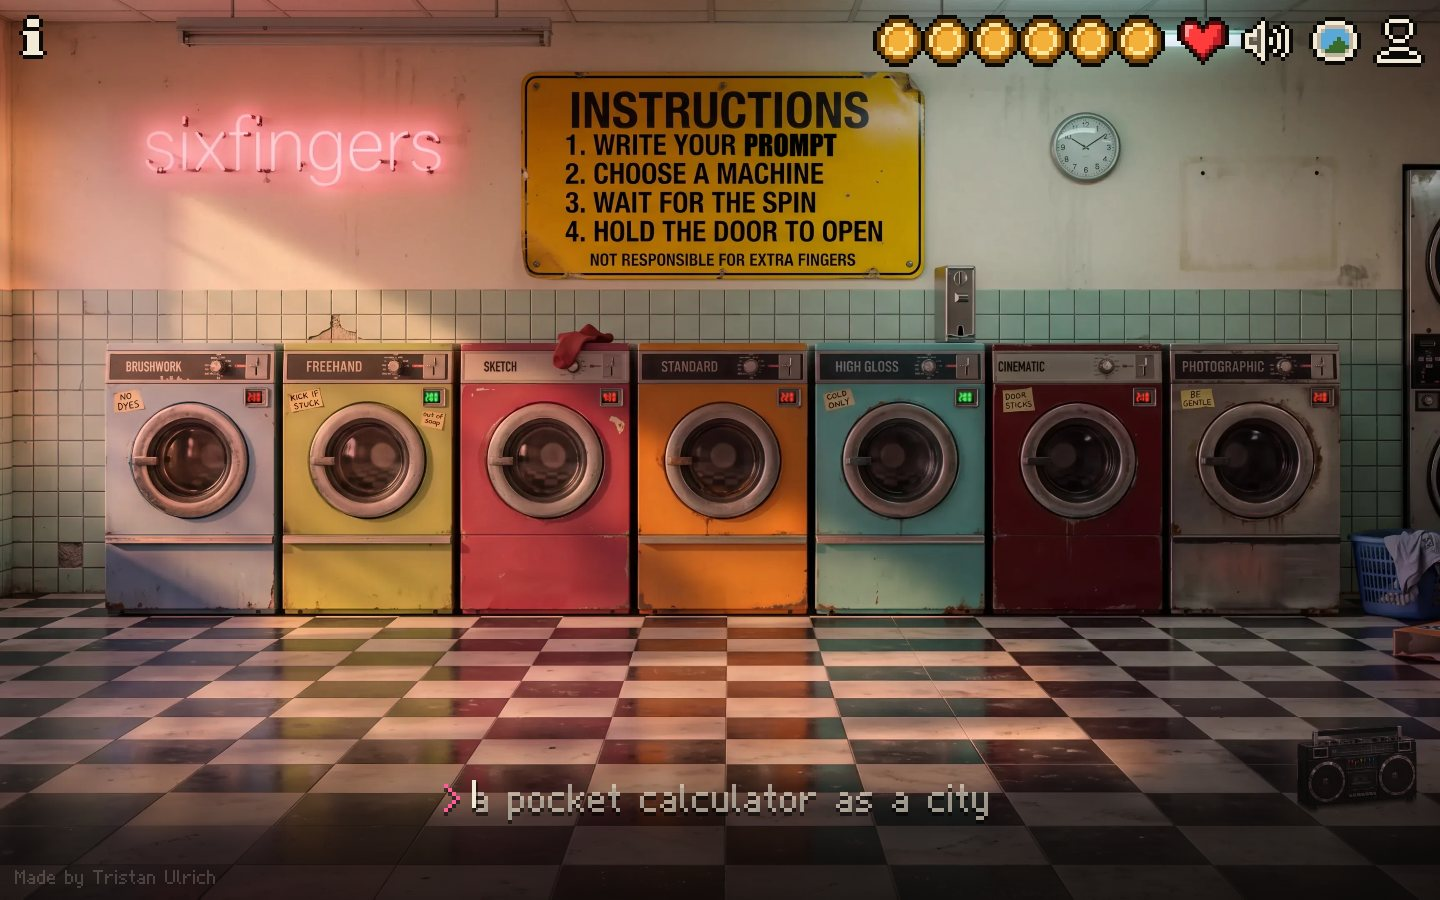
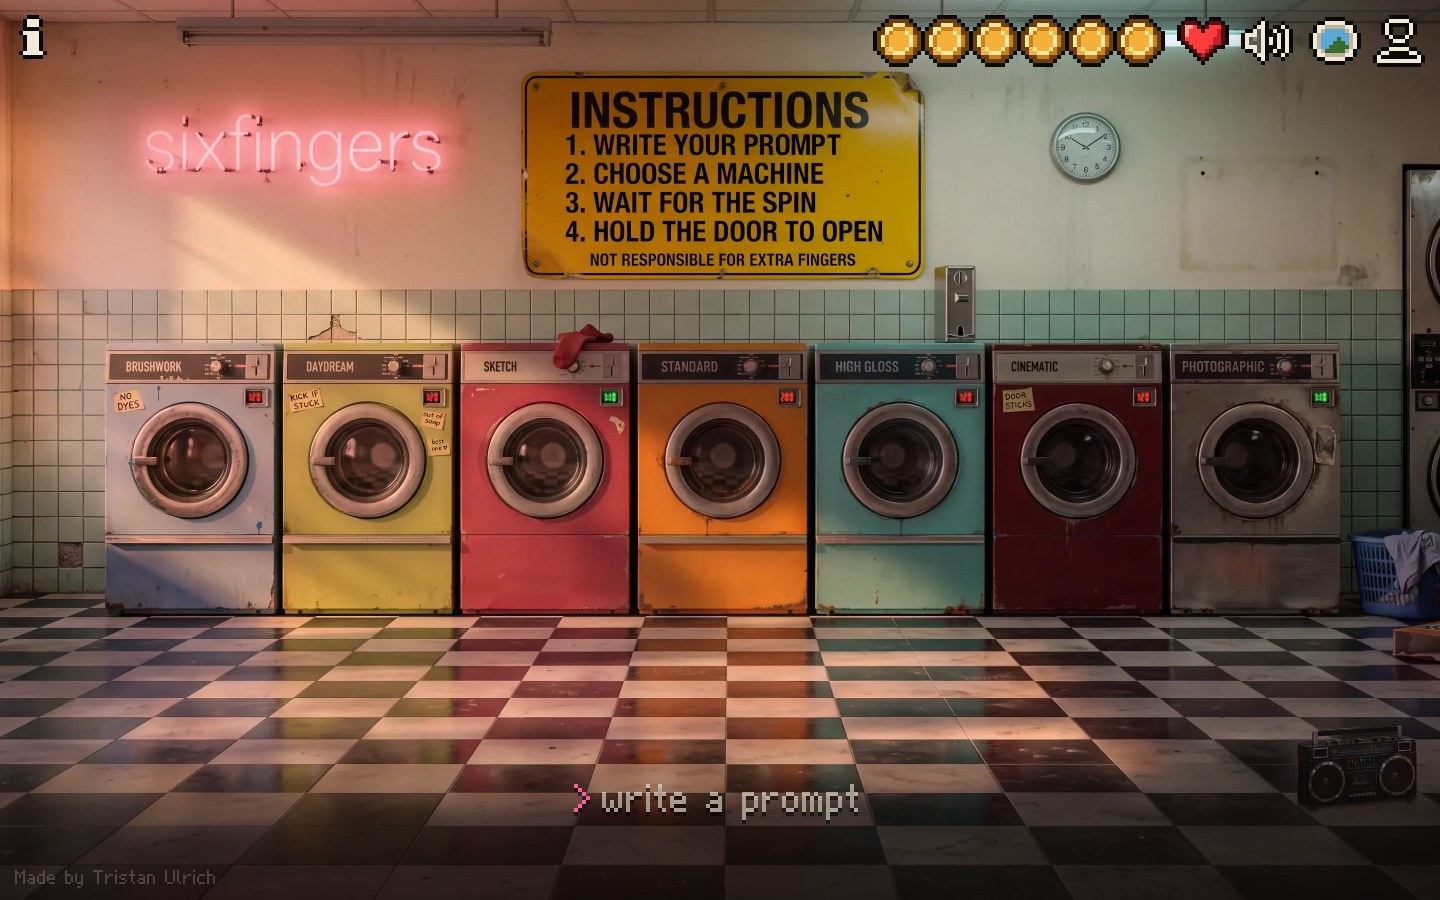
README: the laundromat as it is now (Daydream, the honest countdown, real sounds, what the site learns), new screenshots from a real wash

diff --git a/README.md b/README.md
@@ -8,7 +8,7 @@ A laundromat for prompts. You write one, pick a washing machine, and six picture
 
 **[sixfingers.vercel.app](https://sixfingers.vercel.app)**
 
-<img src="docs/screenshots/room-day.jpg" width="900" alt="The front wall of an old laundromat: seven coloured washing machines, a yellow INSTRUCTIONS sign, a pink neon that reads sixfingers, a chequered floor. A grey prompt idea is typing itself on the floor.">
+<img src="docs/screenshots/room-day.jpg" width="900" alt="The front wall of an old laundromat: seven coloured washing machines, a yellow INSTRUCTIONS sign, a pink neon that reads sixfingers, a chequered floor. The prompt line waits on the floor.">
 
 </div>
 
@@ -30,39 +30,39 @@ The first version of the site, from August to October 2026, was dressed as Windo
 
 ## How a wash goes
 
-**Pick a machine.** Clicking a machine walks you up to it. Its card says which model it runs, what that model is good at, and three numbers read from the Horde a moment ago: the estimated wait, how many jobs are in line, and how many volunteer computers are running it.
+**Pick a machine.** Clicking a machine walks you up to it. Its card says which model it runs and what that model is good at, then three numbers: "wait", how long a wash would take if you started now; "ahead", how many requests are already waiting for this machine; and "helpers", how many volunteer computers are running its model right now.
 
-<img src="docs/screenshots/machine-card.jpg" width="900" alt="Close-up of the blue Brushwork machine with its card: Deliberate, 2023, a short description, then ~3m wait now, 6 in line, 8 computers, and a Generate button with a coin">
+<img src="docs/screenshots/machine-card.jpg" width="900" alt="Close-up of the yellow Daydream machine with its card: Anything Diffusion, 2023, a short description, then the wait, the number of requests ahead and the computers online, and a Generate button with a coin">
 
-**Drop a coin.** The coin goes into the slot on the machine, the door swings open and the letters of your prompt fly in one at a time.
+**Drop a coin.** The coin goes into the slot, the door swings open and the letters of your prompt fly in one at a time.
 
-<img src="docs/screenshots/letters-fly-in.jpg" width="900" alt="The door of the blue machine swings open and the letters of a heron waiting for a train tumble into the drum">
+<img src="docs/screenshots/letters-fly-in.jpg" width="900" alt="The door of the yellow machine swings open and the letters of the prompt tumble into the drum">
 
-**Wait.** The drum is real physics: the letters have weight, they pile up and roll over each other, the three paddles lift them and drop them, and at the spin they get pressed flat against the wall like real laundry. The card shows the actual state of your job on the Horde: waiting in line, then painting, and each of the six squares fills in when a real picture is finished.
+**Wait in line.** The red display on the machine becomes a countdown, like a real one, and the card shows the same number. It only ever goes down, one second per second. The drum runs a programme picked at random for each wash: turns one way then the other, rocking, short shakes, pauses, and quick bursts of spin that pin the letters to the wall before letting them drop.
 
-<img src="docs/screenshots/washing.jpg" width="900" alt="The machine mid-wash: white pixel letters tumbling in water behind the glass, and on the card three of the six squares filled with coarse pixel versions of finished pictures, 3/6 ready, about a minute left">
+<img src="docs/screenshots/washing.jpg" width="900" alt="The machine mid-wash: pixel letters tumbling in water behind the glass, the card with six squares in coarse pixels and the countdown">
+
+**Your turn.** When a volunteer picks up your prompt, the machine chimes and says so. From there the time is ours: the six pictures appear one by one in the squares as they really finish, the drum rinses, drains and spins, and the countdown reaches 0:00 exactly when the machine stops.
 
 You don't have to stand there. Up to three machines can wash at once, one coin each, and you can walk between them; a machine that finishes while you're elsewhere lights up and beeps.
 
-**Hold the door.** When the machine is done it stops shaking and glows. You press and hold on it, the pressure builds, and the door blows open.
+**Hold the door.** When the machine is done it glows. You press and hold on it, the drum rumbles, steam hisses through the seal, and the door blows open.
 
-<img src="docs/screenshots/done.jpg" width="900" alt="The blue machine glowing after its wash, with the letters resting in the drum and a pink line on the floor that says hold the door (or space)">
+<img src="docs/screenshots/done.jpg" width="900" alt="The yellow machine glowing after its wash, with a pink line on the floor that says hold the door">
 
-<img src="docs/screenshots/holding-door.jpg" width="900" alt="Holding the door of the blue machine: the glass glows white, the letters are pressed in a pile, and a pink line on the floor says keep holding">
+<img src="docs/screenshots/holding-door.jpg" width="900" alt="Holding the door: the glass glows, and a pink line on the floor says keep holding">
 
-<img src="docs/screenshots/door-bursts.jpg" width="900" alt="The first picture, a heron on a railway track, spinning out of the burst door with a spray of pixel drops">
+**Six pictures come out,** one at a time. You can keep them, share them, love them, or wash the same prompt in another machine.
 
-**Six pictures come out,** one at a time. You can keep them, share them, or wash the same prompt in another machine.
+<img src="docs/screenshots/one-picture.jpg" width="900" alt="The first picture large in the middle of the screen">
 
-<img src="docs/screenshots/one-picture.jpg" width="900" alt="A heron painted in oils by an autumn river, large in the middle of the screen, with the four earlier pictures lined up underneath">
+<img src="docs/screenshots/six-pictures.jpg" width="900" alt="All six pictures from the Daydream machine together">
 
-<img src="docs/screenshots/six-pictures.jpg" width="900" alt="All six pictures from the Brushwork machine together: a heron on the tracks in loud colours, a train at a platform, a watercolour heron, two orange signs over a field, a heron painted in oils by a river, and an empty railway line through autumn trees">
+Those six are a real wash on the Daydream machine with the prompt "a lighthouse keeper feeding seagulls in a storm", made for this page on 14 October 2026.
 
-Those six are a real wash on the Brushwork machine with the prompt "a heron waiting for a train". It took 87 seconds.
+The collection keeps every wash with its prompt, its machine and its date, in your browser. Accounts are built (Supabase, hosted in Paris) so that a collection can follow you from one device to another; signing in with Google and GitHub opens as soon as those two are switched on.
 
-The collection keeps every wash with its prompt, its machine and its date. For now it lives in your browser. Optional accounts are on their way, so a collection can follow you from one device to another; the storage is set up (Supabase, hosted in Paris), and the sign-in options aren't open yet.
-
-<img src="docs/screenshots/collection.jpg" width="900" alt="The collection window in pixel style: a search box, sorting by newest, oldest or machine, and the heron wash with its six pictures, its machine and its time">
+<img src="docs/screenshots/collection.jpg" width="900" alt="The collection window in pixel style: a search box, sorting by newest, oldest or machine, and the wash with its six pictures">
 
 ## The room changes with the time
 
@@ -75,12 +75,13 @@ The light coming into the room follows your own clock: daylight, sunset, and nig
 </tr>
 </table>
 
-It also works on a phone, where the prompt moves up above the keyboard and the machines are close enough to touch.
+It also works on a phone: the machines are close enough to touch, you swipe from one to the next, the card slides up underneath, and the prompt moves above the keyboard.
 
 <table>
 <tr>
-<td><img src="docs/screenshots/phone-room.jpg" width="300" alt="SIXFINGERS on a phone at sunset: the INSTRUCTIONS sign, three machines and the prompt line on the floor"></td>
-<td><img src="docs/screenshots/phone-machine.jpg" width="300" alt="The Standard machine on a phone, with its card underneath: Stable Diffusion 1.5, 2022, ~3m wait now, 10 in line, 8 computers"></td>
+<td><img src="docs/screenshots/phone-room.jpg" width="260" alt="SIXFINGERS on a phone at night: the sign, the machines and the prompt line on the floor"></td>
+<td><img src="docs/screenshots/phone-machine.jpg" width="260" alt="The High Gloss machine on a phone, with its card underneath"></td>
+<td><img src="docs/screenshots/phone-washing.jpg" width="260" alt="The High Gloss machine washing on a phone, with the countdown"></td>
 </tr>
 </table>
 
@@ -91,7 +92,7 @@ From left to right on the wall. Each machine adds a "recipe" to your prompt: a f
 | Machine | Model | What it does |
 |---|---|---|
 | Brushwork | Deliberate | Paints everything. Each picture gets its own technique (oil with thick impasto, watercolour, gouache, impressionist, Dutch golden age, acrylic), its own brushwork and its own palette. |
-| Freehand | Anything Diffusion | A strong anime style that ignores half of what you type. The recipe moves between cel shading, manga panels, chibi and 1990s anime stills. |
+| Daydream | Anything Diffusion | A strong anime style that ignores half of what you type, and the regulars' favourite (there's a note on it that says so). The recipe moves between cel shading, manga panels, chibi and 1990s anime stills. |
 | Sketch | Anything V5 | Pencil, ink and paper: graphite, pen, charcoal, ink wash, clean lineart. One picture in six keeps a little watercolour, because six black and white faces in a row felt grim. |
 | Standard | Stable Diffusion 1.5 | No recipe at all. Your prompt goes in as you typed it. This is the model everything else here was built from, and the one with the most extra fingers. |
 | High Gloss | Dreamshaper | The most capable and the least surprising. Concept art, glossy renders, storybook illustration, studio light. |
@@ -102,19 +103,28 @@ I picked the models with a stopwatch. On 12 October 2026 I sent the same prompt 
 
 ## How the wait is estimated
 
-Each machine has a small red display under its name. It shows how long a wash would take if you started it now. The fastest machines light up green, and a machine with no volunteer running its model is out of order.
+This took four tries, and the fourth is the one worth describing.
 
-The Horde publishes how much work is waiting and how fast that work gets done, both for each model and for the whole network. The work is counted in "megapixel-steps", roughly the size of a picture times the number of passes it takes to draw it. The estimate takes half of each:
+What the real washes showed, once they were recorded: a wash is two very different waits. First the line, until a volunteer picks up the request. Then the work, which is short: the six pictures of a wash usually come back within 12 to 33 seconds of each other. The line is the long and unpredictable part. And it follows one thing far better than anything else: how many requests are already waiting for that particular model. The Horde's overall queue (often 600 or 700 requests) said almost nothing, because each computer only serves the models it has loaded.
+
+So a machine announces:
 
 ```
-model queue = work waiting for this model / speed of the computers running it
-Horde queue = work waiting on the whole Horde / what the Horde gets through per minute
-wait = (model queue + Horde queue) / 2 + 20 seconds
+line  = (10 s + 7 s per request waiting for this model) x a learned margin x 1.15 + 10 s
+ritual = the time this machine usually needs to finish six pictures, + 8 s, + 12 s of spin (35 to 70 s)
+wait   = line + ritual
 ```
 
-The model alone wasn't enough. On 13 October, High Gloss announced 30 seconds and took three minutes, because an anonymous visitor goes to the back of the line and the same computers also serve other models. Real washes correct the figure. After each one, the site records three numbers, anonymously: the machine, the wait it announced and the wait it really took. Each machine's estimate is then multiplied by the median ratio of the last 48 hours, measured across all visitors. Once you have washed twice on a machine, your own browser's ratio takes over for you.
+The learned margin comes from every wash anyone has done on that machine in the last two weeks (its 30 most recent): the 85th percentile of how long the line really took compared to the rule, so that the announced time is one you will almost never go over. With few measurements it leans towards a cautious default.
 
-The site reads the Horde again once a minute. During a wash, the time left counts down with the clock and adjusts as the queue moves, but it never jumps up by more than a tenth at once. The site never shows your place in the Horde's overall queue, because that counts every job on every model and made it look as if five hundred people were in front of you.
+During the wash, the countdown follows two rules.
+
+- **In line, it only goes down.** If a volunteer picks you up early, the ritual takes what was left (up to 75 seconds), so the clock usually doesn't even jump: it keeps going down and reaches zero when the machine stops. If the line is slower than announced, the ritual can shrink to 35 seconds to absorb it.
+- **If that is not enough, it says so.** The card reads "small delay: +30s", then "+60s" at most, never more than twice; after that it waits and says the line is slow tonight. Tapping the line explains it in full.
+
+"Ahead" is the Horde's place in its queue multiplied by this model's share of that queue, because only this model's requests stand between you and its computers. It never goes up during a wash.
+
+After each real wash, the site sends what it measured, without any identifier: the machine, the prompt, how it ended, the time announced, the line and the work as they really were, the state of the Horde when it started, and whether it was a phone. That is what the margins learn from. When you love a picture, the picture itself, its recipe and its seed are kept too, in a private store nobody can read through the site. You can switch all of this off in your profile.
 
 ## What the site sticks to
 
@@ -132,13 +142,13 @@ To go easy on the volunteers, pictures are small (384 pixels, or 320 when a mode
 
 It has no dependencies and no build step: plain JavaScript modules served as they are, and one stylesheet.
 
-The room is one photograph of a laundromat that I generated with an image model and retouched area by area, 6336 by 3564 pixels. Day, sunset and night are relit copies of that same picture, and each copy is cut into layers: the wall without machines, each drum without its door, each door on its own hinge, and an out-of-order version of every machine. At rest each machine is exactly the background, pixel for pixel; when it shakes or the door opens, the layers underneath show. One CSS transform scales the whole room to your screen, so every coordinate in the code is a pixel of that one image.
+The room is one photograph of a laundromat that I generated with an image model and retouched area by area, 6336 by 3564 pixels. The name plates are re-engraved by a script, and the few details on the machines (a note on Daydream, dried paint on Brushwork, an old photo on Photographic) were added with one edit of the daylight picture, then relit for sunset and night. Day, sunset and night are relit copies of that same picture, and each copy is cut into layers: the wall without machines, each drum without its door, each door on its own hinge, and an out-of-order version of every machine. At rest each machine is exactly the background, pixel for pixel; when it shakes or the door opens, the layers underneath show. One CSS transform scales the whole room to your screen, so every coordinate in the code is a pixel of that one image.
 
 Everything that isn't the room is drawn in code, in whole pixels: the windows, the buttons, the icons, the coins, the letters in the drum. There is one pixel unit for the whole interface, so nothing has bigger or finer pixels than its neighbour. The typeface is my own, written in the code as rows of `#` and `.`, and accents are drawn once and placed on the letter, so an "é" can't drift away from its "e".
 
 The drum is a little physics simulation: gravity at the scale of a real 50 cm drum, a wall that drags the letters by friction, three paddles, letters that collide and stack and roll over each other, and a spin cycle fast enough to pin them to the wall. The machine's shaking comes from the load. When the letters sit off-centre it wobbles, and every drop gives it a small knock.
 
-The sounds are synthesised by a script and only load after your first click. The radio in the corner plays six real stations and connects to nothing until you switch it on.
+The machine's sounds are real recordings released into the public domain on Freesound (washing, rinsing, spinning, draining, filling, the door unlocking, steam bursting), cut, looped and levelled by a script; the rest of the room (the street, the neon, the bell) is synthesised. Nothing loads before your first click. The radio in the corner plays six real stations and connects to nothing until you switch it on.
 
 The site's code is private. The repository you're reading holds the parts that are meant to be open.
 
@@ -196,6 +206,8 @@ For now the laundromat ships its seven fixed machines. The community catalogue a
 
 To the volunteers of the [AI Horde](https://aihorde.net), who lend their graphics cards so that strangers can make pictures for free. Every picture on SIXFINGERS was painted on one of their machines. If you have a graphics card that sits idle, you can [lend it too](https://github.com/Haidra-Org/horde-worker-reGen).
 
+To the people who recorded and gave away the sounds of the machine, all under CC0 on [Freesound](https://freesound.org): ilmari_freesound, afnan808, hansfbaier, ohrpilot, somatik7, PhilllChabbb, greatsoundstube, pengo_au and craigsmith.
+
 To the people who trained and shared the seven models. Stable Diffusion 1.5 was developed by Robin Rombach and Patrick Esser. The Horde's pages for the other six don't name their authors, and I'd rather leave a blank than guess: Deliberate, Anything Diffusion, Anything V5, Dreamshaper, AbsoluteReality and ICBINP.
 
 ## Support
@@ -210,4 +222,4 @@ tristanulrichlobey@gmail.com, or open an [issue](../../issues).
 
 Copyright (c) 2026 Tristan Ulrich. All rights reserved.
 
-SIXFINGERS is not open source. The site, its code, its artwork, its sounds, its typeface and its name are not licensed to anyone. This repository is public so that you can read the catalogue, run the checkers and propose a machine; [`LICENSE`](LICENSE) says exactly what that allows, and nothing beyond it.
+SIXFINGERS is not open source. The site, its code, its artwork, its own sounds, its typeface and its name are not licensed to anyone (the recordings credited above stay in the public domain). This repository is public so that you can read the catalogue, run the checkers and propose a machine; [`LICENSE`](LICENSE) says exactly what that allows, and nothing beyond it.
